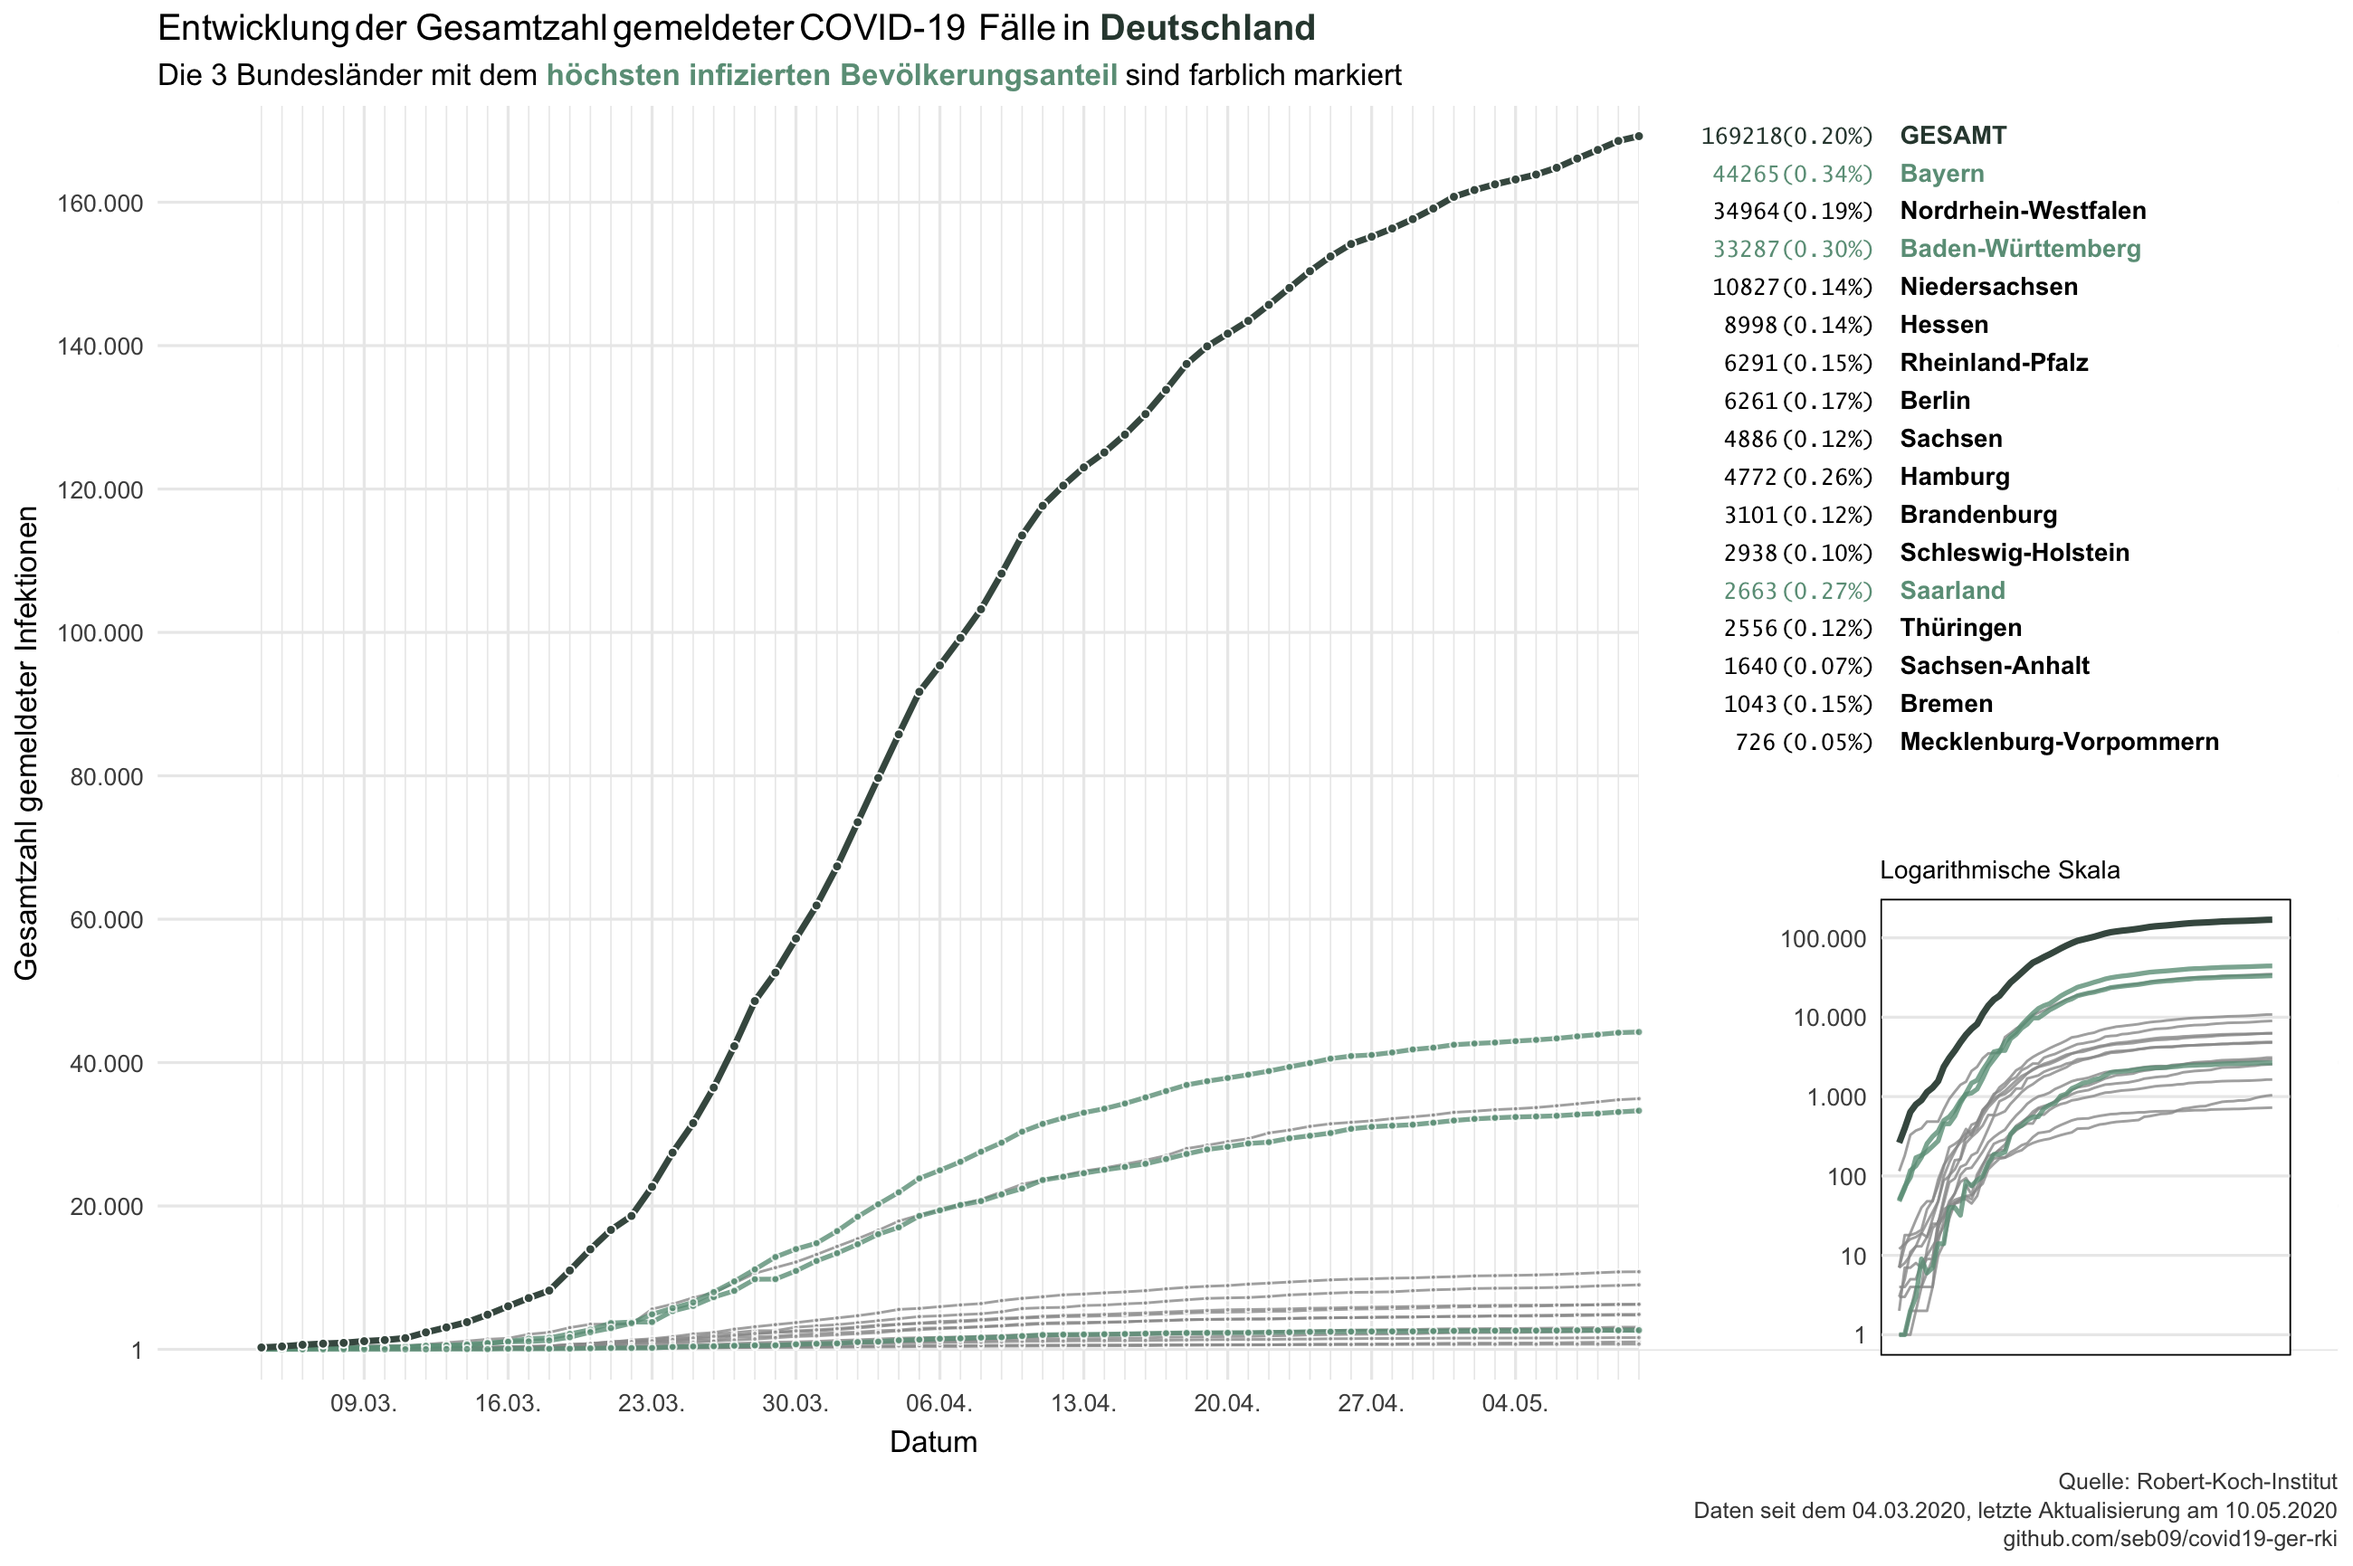
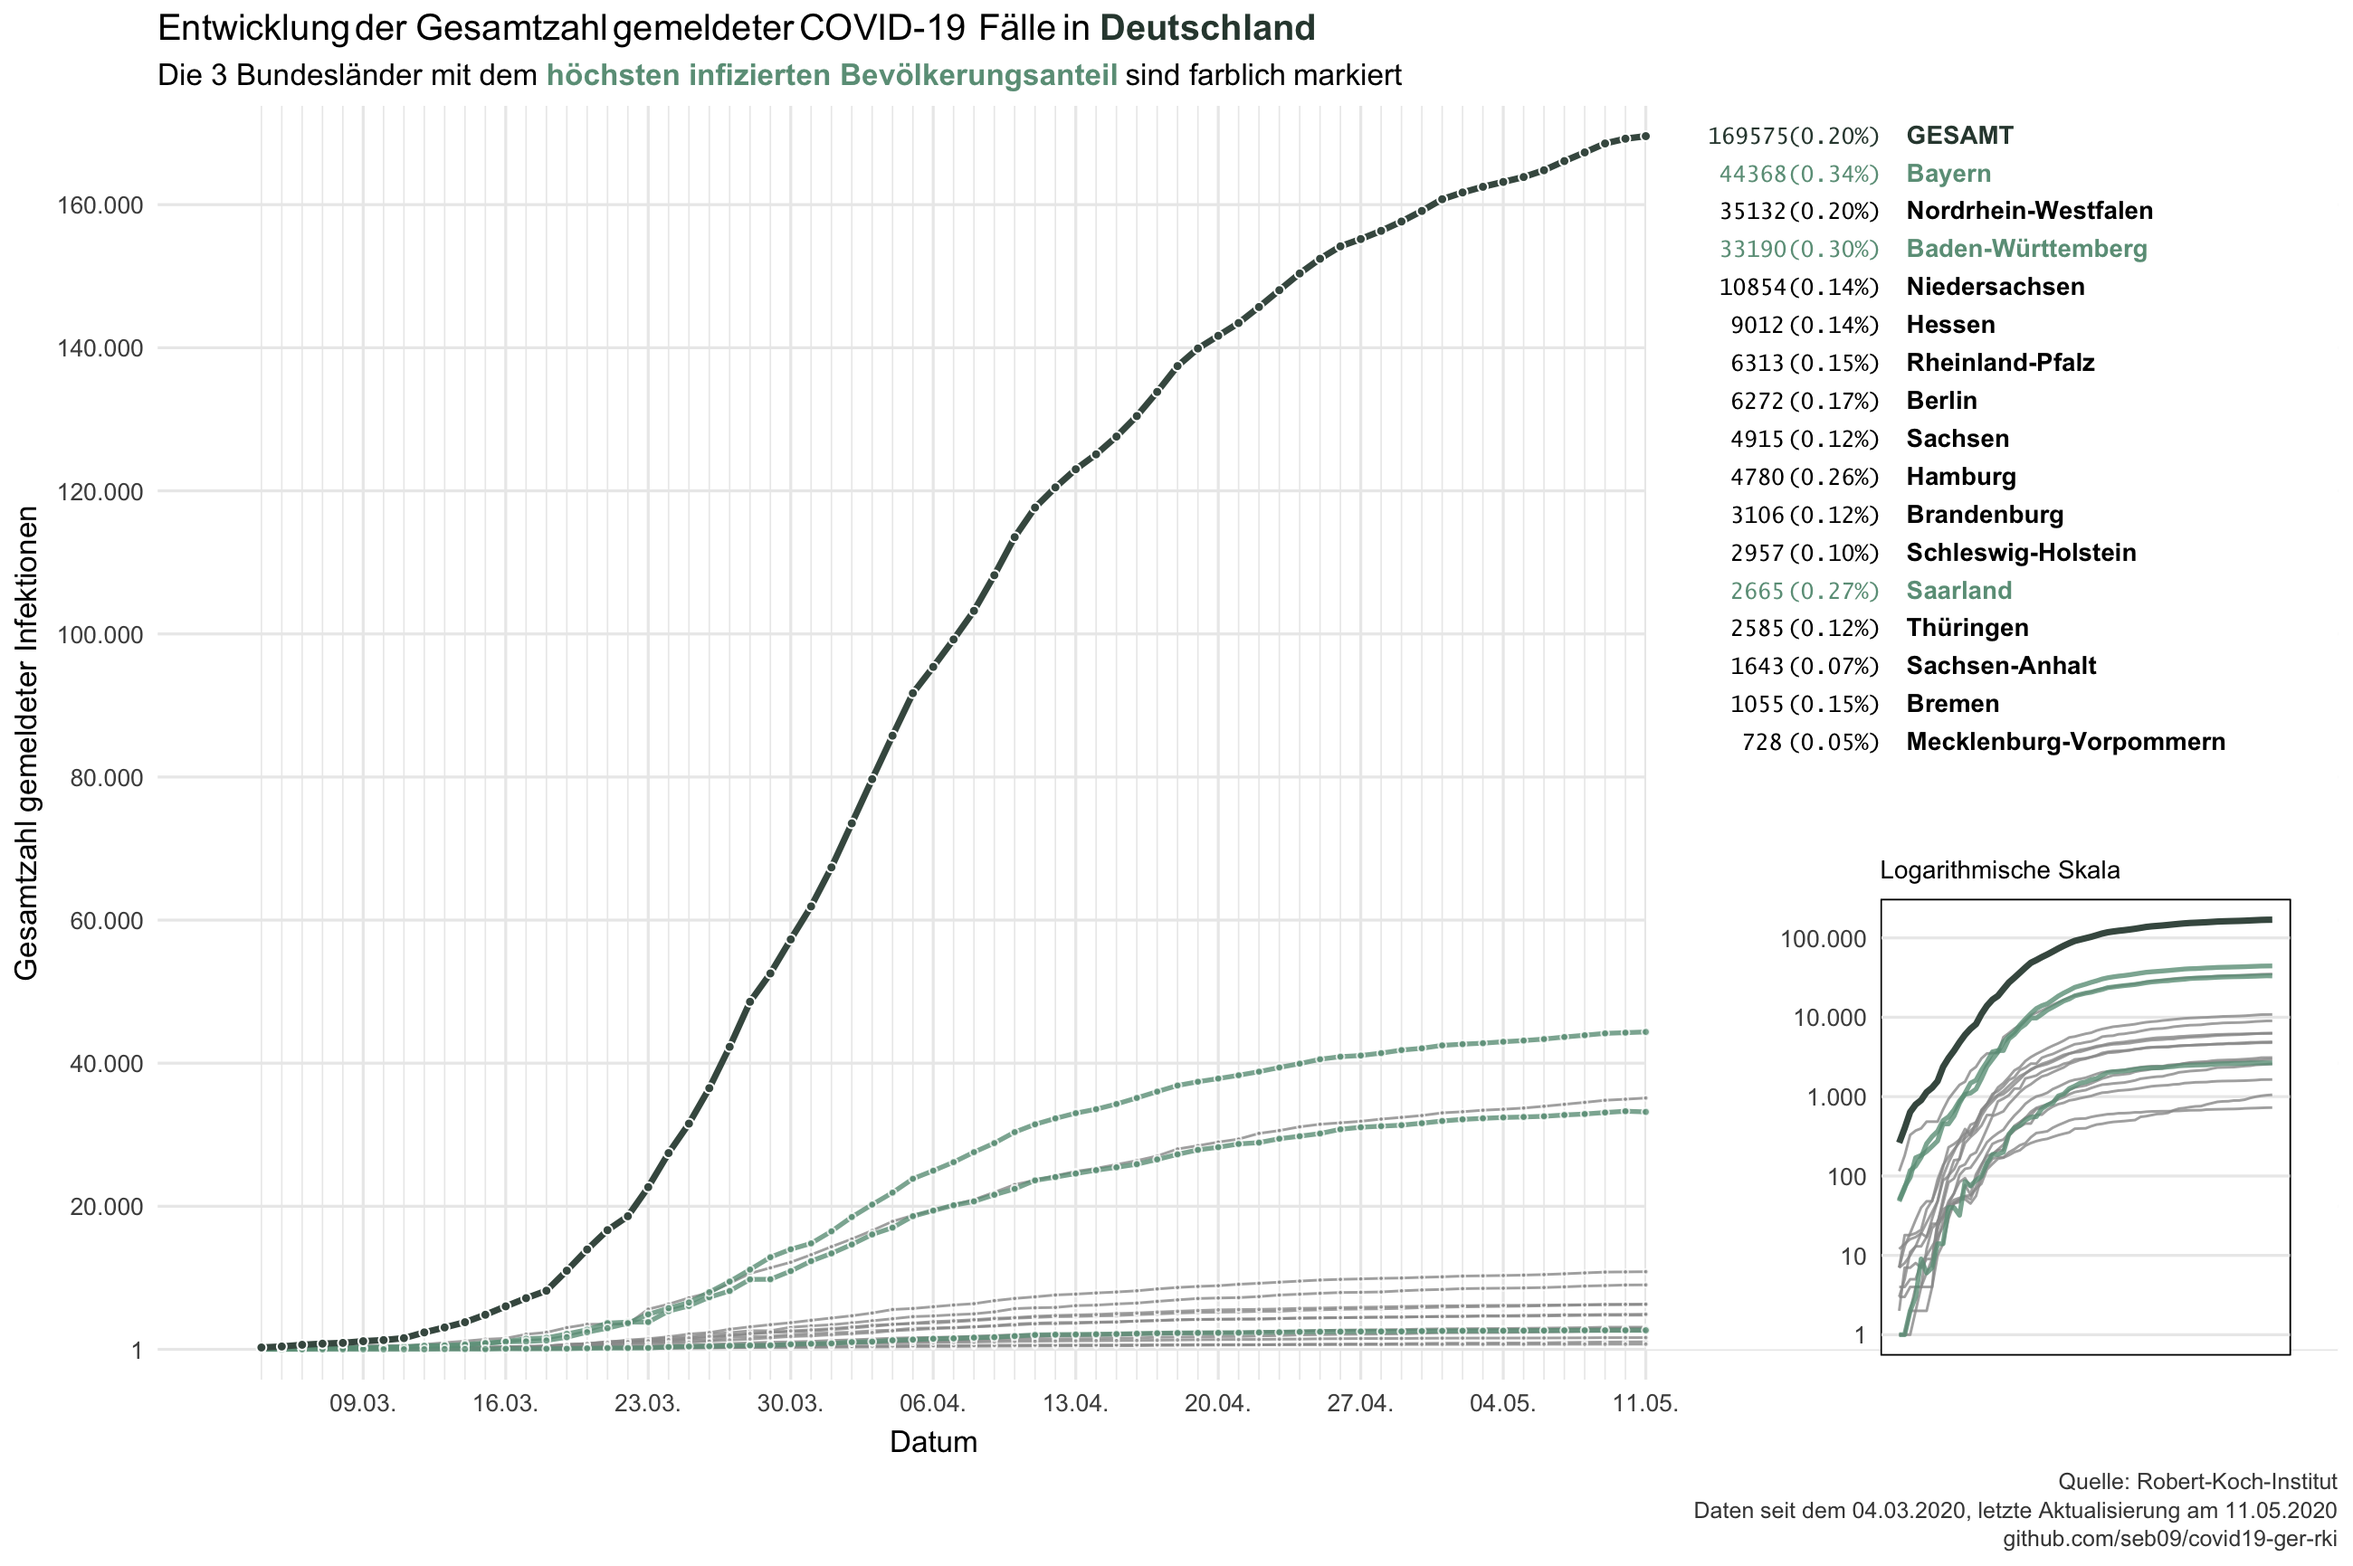
daily update 2020-05-11

diff --git a/README.md b/README.md
@@ -1,6 +1,6 @@
 Data from the Robert-Koch-Institut on COVID-19 in Germany
 ================
-Last update: 2020-05-10
+Last update: 2020-05-11
 
 This repository contains data on reported COVID-19 cases in Germany and
 its federal states that is published daily by the Robert-Koch-Institut
@@ -14,26 +14,26 @@ corona_rki %>%
   print(n = 16)
 ```
 
-    ## # A tibble: 1,082 x 6
+    ## # A tibble: 1,098 x 6
     ##    Datum      Bundesland      Fallzahl Todeszahl Fallzahl_neu Todeszahl_neu
     ##    <date>     <chr>              <dbl>     <dbl>        <dbl>         <dbl>
-    ##  1 2020-05-10 Baden-Württemb…    33287      1542          182             8
-    ##  2 2020-05-10 Bayern             44265      2153           96             6
-    ##  3 2020-05-10 Berlin              6261       165           19             1
-    ##  4 2020-05-10 Brandenburg         3101       134            3             1
-    ##  5 2020-05-10 Bremen              1043        32           19             0
-    ##  6 2020-05-10 Hamburg             4772       204            0             0
-    ##  7 2020-05-10 Hessen              8998       411           82             3
-    ##  8 2020-05-10 Mecklenburg-Vo…      726        19            4             0
-    ##  9 2020-05-10 Niedersachsen      10827       498           24             2
-    ## 10 2020-05-10 Nordrhein-West…    34964      1425          147             1
-    ## 11 2020-05-10 Rheinland-Pfalz     6291       195            9             0
-    ## 12 2020-05-10 Saarland            2663       142            3             0
-    ## 13 2020-05-10 Sachsen             4886       187           13             1
-    ## 14 2020-05-10 Sachsen-Anhalt      1640        48            3             0
-    ## 15 2020-05-10 Schleswig-Hols…     2938       123           40             1
-    ## 16 2020-05-10 Thüringen           2556       117           23             2
-    ## # … with 1,066 more rows
+    ##  1 2020-05-11 Baden-Württemb…    33190      1545          -97             3
+    ##  2 2020-05-11 Bayern             44368      2155          103             2
+    ##  3 2020-05-11 Berlin              6272       165           11             0
+    ##  4 2020-05-11 Brandenburg         3106       134            5             0
+    ##  5 2020-05-11 Bremen              1055        34           12             2
+    ##  6 2020-05-11 Hamburg             4780       204            8             0
+    ##  7 2020-05-11 Hessen              9012       412           14             1
+    ##  8 2020-05-11 Mecklenburg-Vo…      728        19            2             0
+    ##  9 2020-05-11 Niedersachsen      10854       498           27             0
+    ## 10 2020-05-11 Nordrhein-West…    35132      1437          168            12
+    ## 11 2020-05-11 Rheinland-Pfalz     6313       195           22             0
+    ## 12 2020-05-11 Saarland            2665       142            2             0
+    ## 13 2020-05-11 Sachsen             4915       187           29             0
+    ## 14 2020-05-11 Sachsen-Anhalt      1643        48            3             0
+    ## 15 2020-05-11 Schleswig-Hols…     2957       124           19             1
+    ## 16 2020-05-11 Thüringen           2585       118           29             1
+    ## # … with 1,082 more rows
 
 Data is downloaded each day at 11am from the [website of the
 RKI](https://www.rki.de/DE/Content/InfAZ/N/Neuartiges_Coronavirus/Fallzahlen.html)
